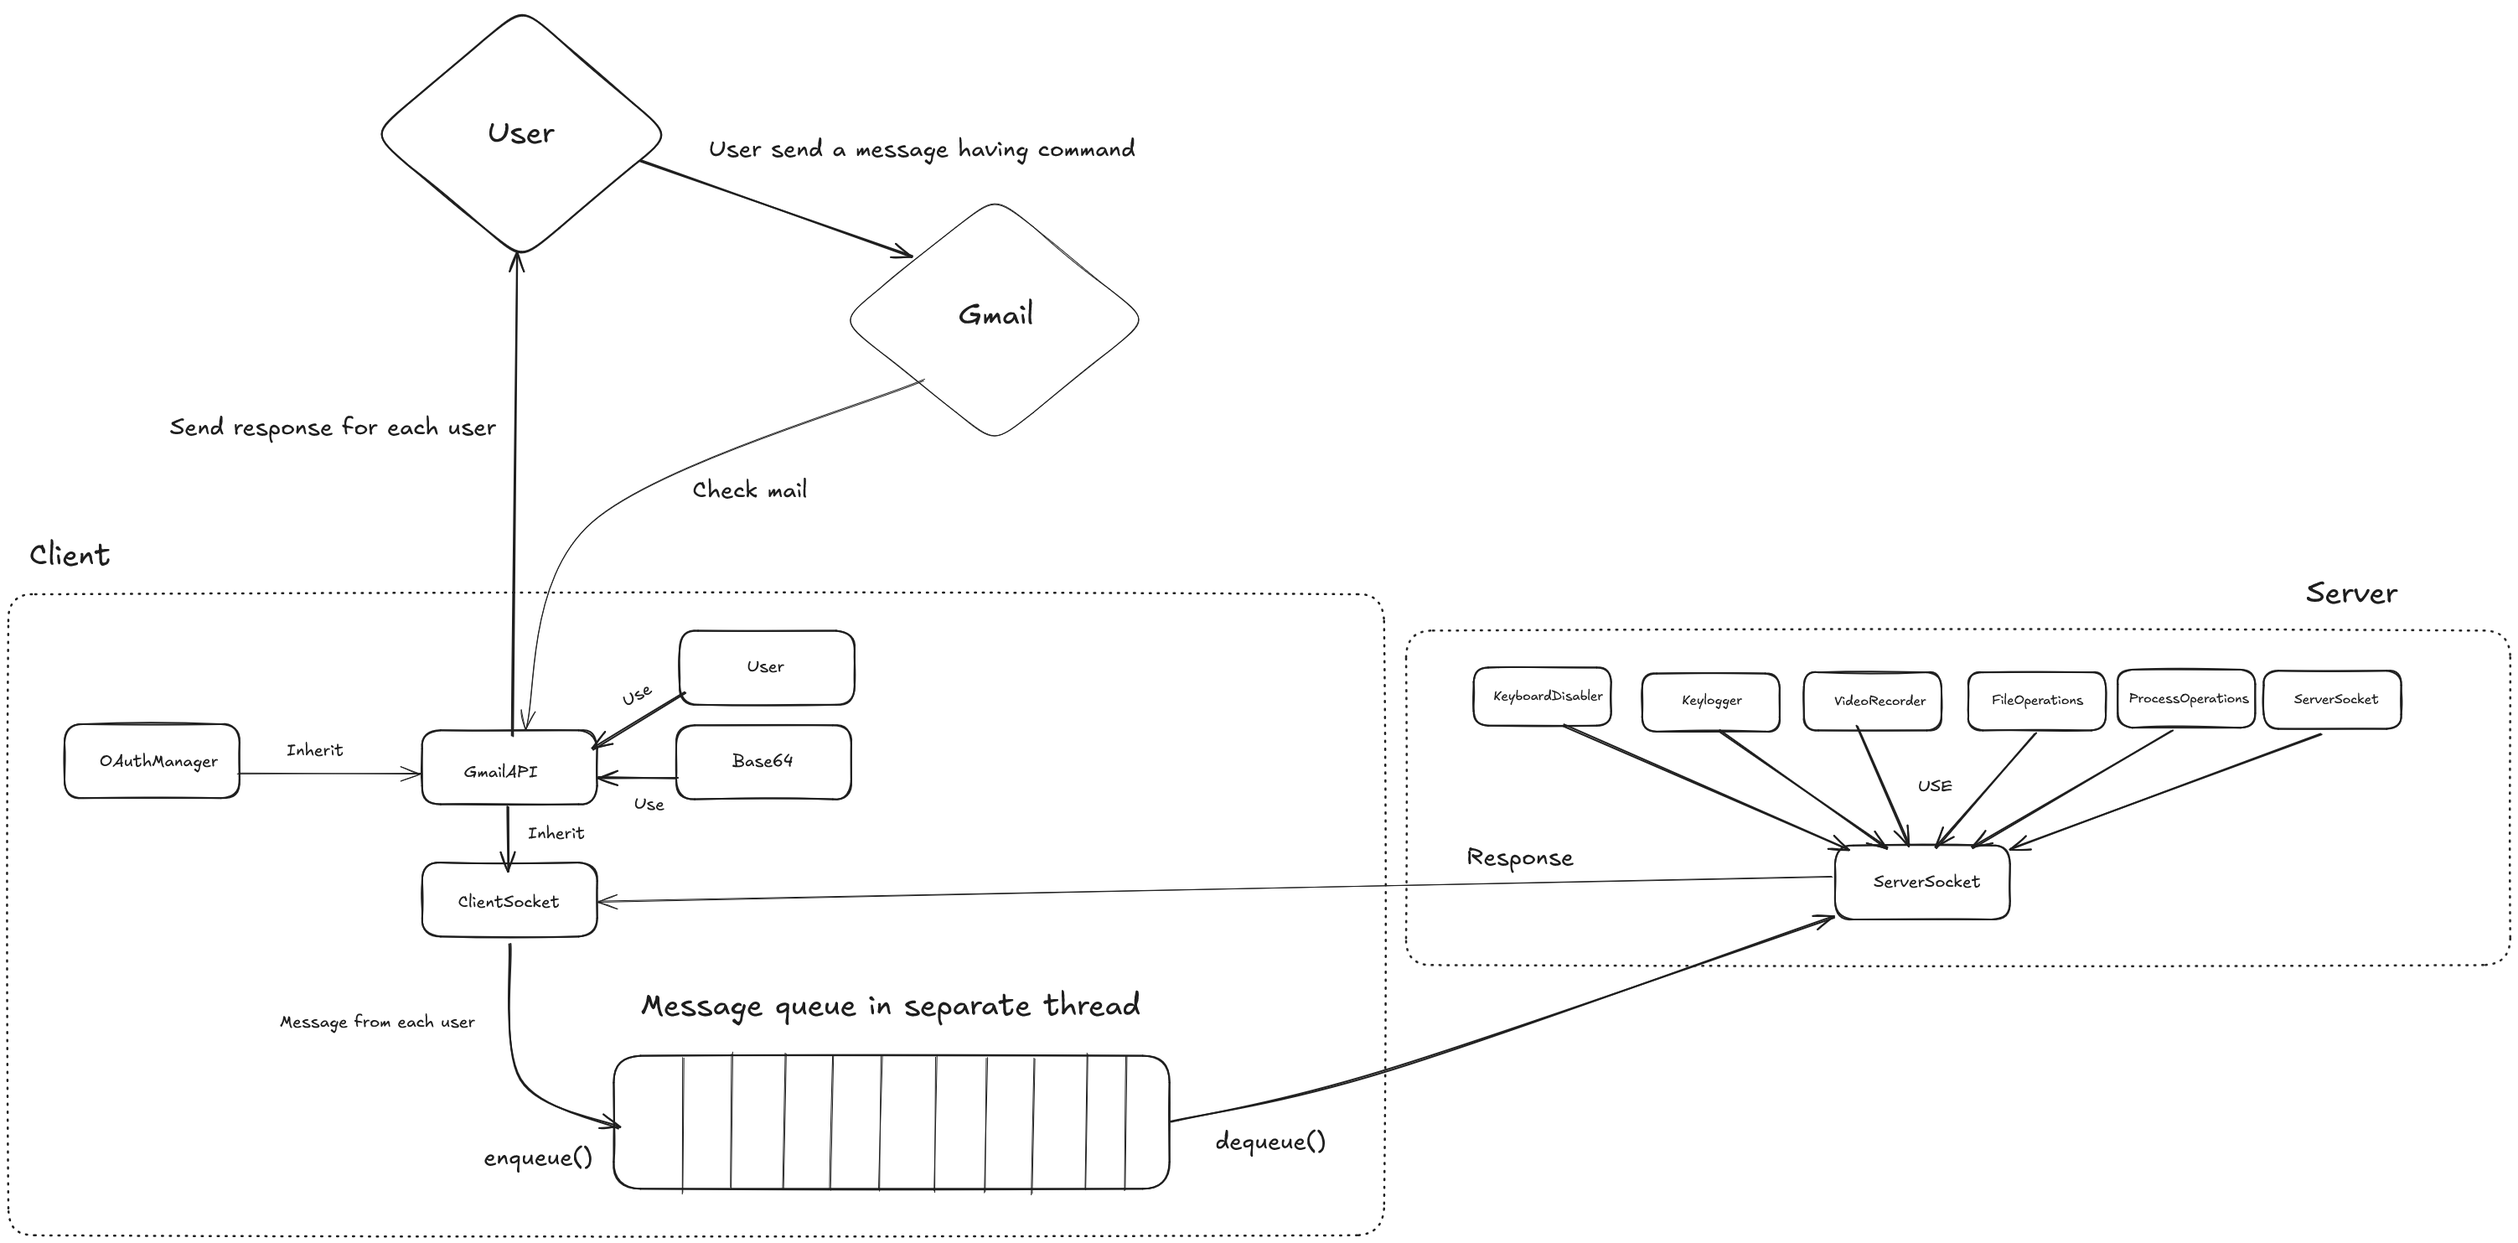
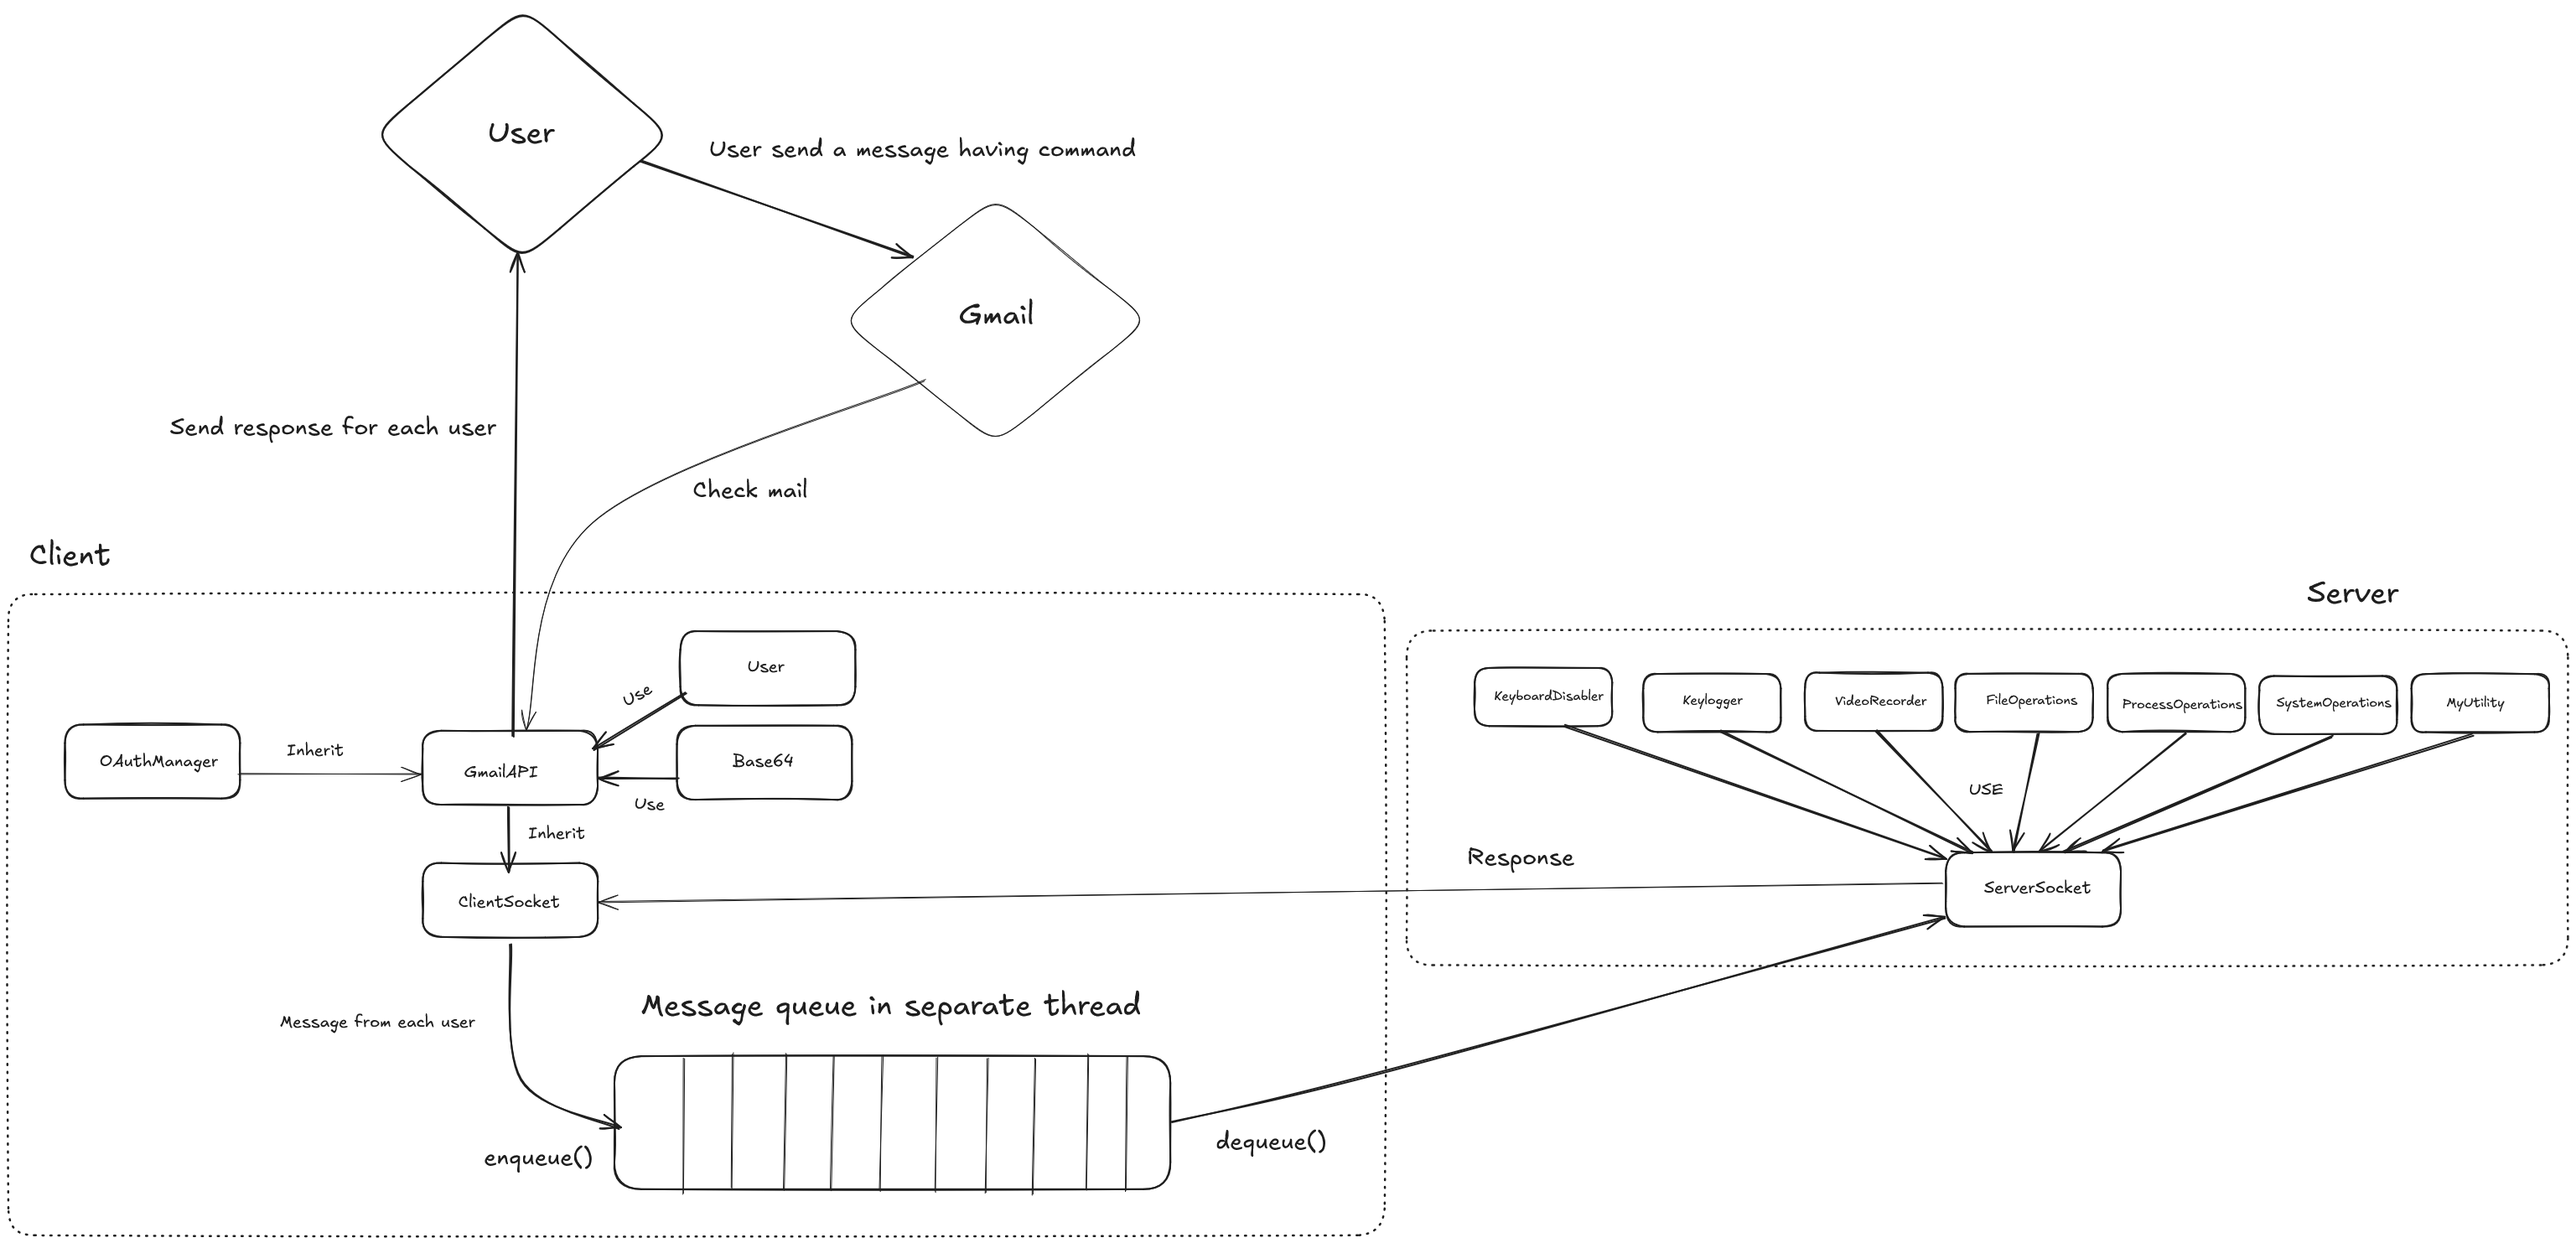
Update Readme file and change UML diagram

diff --git a/Readme.md b/Readme.md
@@ -1,8 +1,15 @@
 # Remote Desktop with Gmail API
 
-This project is an socket-based client-server applications in C++. It includes both client and server implementations, along with necessary build configurations. The project also integrates with the Gmail API for email functionalities. 
+This project is a socket-based client-server application in C++. It includes both client and server implementations, along with necessary build configurations. The project also integrates with the Gmail API for email functionalities.
 
-This project is built for Windows.
+This project is built for **Windows**.
+
+## Requirements
+- [Git](https://git-scm.com/)
+- Compiler: [GNU 13.1.0 or higher](https://gcc.gnu.org/) / [MSBuild from Visual Studio](https://visualstudio.microsoft.com/)
+- [CMake](https://cmake.org/)
+
+You need to install all of these.
 
 ## Files and Directories
 - `build/`: Directory for build output.
@@ -18,21 +25,20 @@ This project is built for Windows.
   - `GmailAPI.cpp`: Implementation file for Gmail API class.
   - `OAuthManager.hpp`: Header file for OAuth manager class.
   - `OAuthManager.cpp`: Implementation file for OAuth manager class.
+  - `HTMLGenerator.hpp`: Header file for HTML Generator function.
+  - `HTMLGenerator.cpp`: Implementation file for HTML Generator function.
   - `User.hpp`: Header file for User class.
 - `img/`: Directory for image assets.
 - `output-client/`: Directory for client output files.
 - `output-server/`: Directory for server output files.
 - `Readme.md`: Project documentation file.
 - `run.ps1`: PowerShell script to build and run the project.
+- `setup_and_build.ps1`: PowerShell script to install vcpkg, dependencies, and build the project.
 - `test.ps1`: PowerShell script to build and run the test cases.
 - `Server/`: Directory for server source files.
   - `server.cpp`: Main source file for the server.
   - `ServerSocket.hpp`: Header file for the server socket class.
   - `ServerSocket.cpp`: Implementation file for the server socket class.
-- `Tests/`: Directory for test files.
-  - `main.cpp`: Main source file for running tests.
-  - `test_base64.cpp`: Test file for Base64 encoding/decoding.
-  - `test_GmailAPI.cpp`: Test file for Gmail API functionalities.
 - `WindowAPI/`: Directory for Windows API related files.
   - `FileOperations.hpp`: Header file for file operations.
   - `FileOperations.cpp`: Implementation file for file operations.
@@ -52,15 +58,15 @@ This project is built for Windows.
 ## Additional files for build
 
 - `oauth2.json`: Your OAuth 2.0 credentials, you can get it in the Google API Console.
-- `account.json`: Store your admin mail.
+- `account.json`: Store your admin email.
 
 ```json
 {
-    "userName": "<your-admin-mail>",
-    "password": "<password]>"
+    "userName": "<your-admin-email>",
+    "password": "<password>"
 }
 ```
-Place these files in ./GmailAPI/ folder.
+Place these files in the `./GmailAPI/` folder.
 
 ## UML Diagram
 
@@ -68,6 +74,7 @@ Place these files in ./GmailAPI/ folder.
 
 ## Build and run the Project
 
+### Build manually
 To build the project, follow these steps:
 
 1. Install [CMake](https://cmake.org/).
@@ -80,17 +87,42 @@ To build the project, follow these steps:
     ```
 3. Install dependencies
     ```sh
-    .\vcpkg install nlohmann-json curl openssl opencv
+    .\vcpkg.exe install nlohmann-json curl openssl
     cd ..
     ```
-4. Configure the project using CMake:
+4. Configure the project using CMake
+
+    If using MSBuild (Visual Studio)
+
     ```sh
     cmake -S . -B build
     ```
-5. Build and run the project:
+    If using MinGW Makefiles
+
     ```sh
-    .\run.ps1
+    cmake -S . -B build -G "MinGW Makefiles"
     ```
+
+### Build automatically
+  Just run the setup and build script
+
+  ```sh
+  .\setup_and_build.ps1 -buildType=<MSVC|GNU>
+  ```
+  Example:
+   ```sh
+  .\setup_and_build.ps1 GNU
+  ```
+
+### Run this project
+  Run the project:
+  ```sh
+  .\run.ps1 -buildType=<MSVC|GNU>
+  ```
+  Example:
+   ```sh
+  .\run.ps1 GNU
+  ```
 
 ## Contact
 
